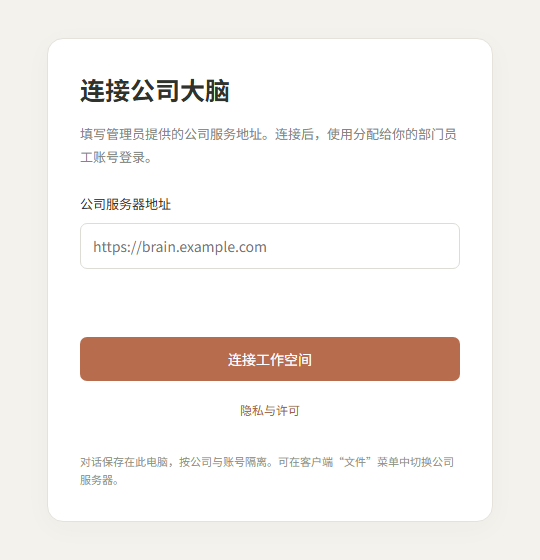
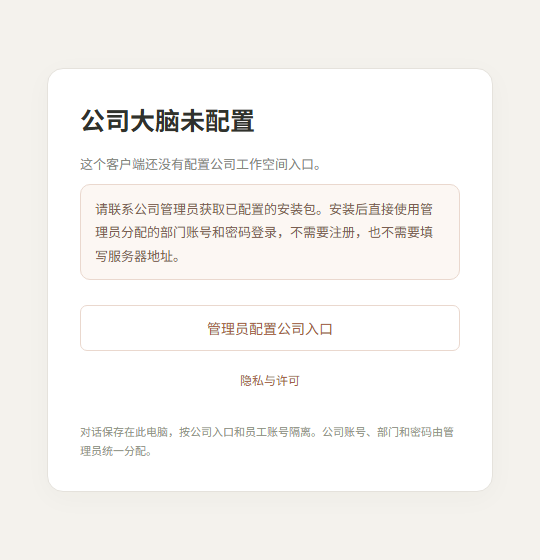
feat: preconfigure employee company login

Changed region(s): [[0.1481, 0.5768, 0.8593, 0.8804], [0.1481, 0.1214, 0.8593, 0.3036], [0.1481, 0.3339, 0.8, 0.4857]]

diff --git a/desktop/server-setup.html b/desktop/server-setup.html
@@ -38,6 +38,14 @@
         line-height: 1.8;
         font-size: 13px;
       }
+      .locked-copy {
+        margin-top: -4px;
+        padding: 12px 14px;
+        border: 1px solid #ead8ce;
+        border-radius: 10px;
+        background: #fcf7f3;
+        color: #795e50;
+      }
       label {
         display: block;
         font-size: 13px;
@@ -69,6 +77,18 @@
       button:disabled {
         opacity: 0.5;
       }
+      button.secondary {
+        margin-top: 12px;
+        background: transparent;
+        color: #a35e43;
+        border: 1px solid #ead8ce;
+      }
+      button.legal {
+        background: transparent;
+        color: #a35e43;
+        margin-top: 8px;
+        font-size: 12px;
+      }
       .error {
         color: #a34a34;
         min-height: 20px;
@@ -84,11 +104,15 @@
   </head>
   <body>
     <main>
-      <h1>连接公司大脑</h1>
-      <p>
-        填写管理员提供的公司服务地址。连接后，使用分配给你的部门员工账号登录。
-      </p>
-      <form>
+      <h1>公司大脑未配置</h1>
+      <section id="locked-setup">
+        <p>这个客户端还没有配置公司工作空间入口。</p>
+        <p class="locked-copy">
+          请联系公司管理员获取已配置的安装包。安装后直接使用管理员分配的部门账号和密码登录，不需要注册，也不需要填写服务器地址。
+        </p>
+      </section>
+      <form id="server-form" hidden>
+        <p>管理员配置模式：填写公司服务根地址，员工端会直接进入账号登录。</p>
         <label for="server-url">公司服务器地址</label
         ><input
           id="server-url"
@@ -97,11 +121,14 @@
           required
         />
         <p class="error" role="alert"></p>
-        <button type="submit">连接工作空间</button>
+        <button id="connect-button" type="submit">保存公司入口</button>
       </form>
-      <button type="button" id="show-legal" style="background:transparent;color:#a35e43;margin-top:8px;font-size:12px">隐私与许可</button>
+      <button type="button" id="show-admin" class="secondary" hidden>
+        管理员配置公司入口
+      </button>
+      <button type="button" id="show-legal" class="legal">隐私与许可</button>
       <small
-        >对话保存在此电脑，按公司与账号隔离。可在客户端“文件”菜单中切换公司服务器。</small
+        >对话保存在此电脑，按公司入口和员工账号隔离。公司账号、部门和密码由管理员统一分配。</small
       >
     </main>
     <script src="server-setup.js"></script>

diff --git a/desktop/server-setup.js b/desktop/server-setup.js
@@ -1,20 +1,37 @@
+const form = document.querySelector("#server-form");
+const locked = document.querySelector("#locked-setup");
+const adminButton = document.querySelector("#show-admin");
+const connectButton = document.querySelector("#connect-button");
+const error = document.querySelector(".error");
+
 document
   .querySelector("#show-legal")
   .addEventListener("click", () => window.companyConnection.showLegal());
-document.querySelector("form").addEventListener("submit", async (event) => {
+
+if (window.companyConnection.canConfigure === true) {
+  adminButton.hidden = false;
+  adminButton.addEventListener("click", () => {
+    locked.hidden = true;
+    adminButton.hidden = true;
+    form.hidden = false;
+    document.querySelector("#server-url").focus();
+  });
+}
+
+form.addEventListener("submit", async (event) => {
   event.preventDefault();
-  const button = document.querySelector("button");
-  const error = document.querySelector(".error");
   error.textContent = "";
-  button.disabled = true;
+  connectButton.disabled = true;
+  connectButton.textContent = "正在检查公司入口…";
   try {
     const result = await window.companyConnection.connect(
-      document.querySelector("input").value,
+      document.querySelector("#server-url").value,
     );
     if (result.error) error.textContent = result.error;
   } catch {
     error.textContent = "连接失败，请检查地址或网络。";
   } finally {
-    button.disabled = false;
+    connectButton.disabled = false;
+    connectButton.textContent = "保存公司入口";
   }
 });

diff --git a/src/Auth.tsx b/src/Auth.tsx
@@ -12,7 +12,10 @@ export default function Auth({
   onLogin: (user: User) => void;
   onLegal: () => void;
 }) {
-  const [setup, setSetup] = useState(bootstrap),
+  const desktopEmployee =
+      !!window.brainDesktop && window.brainDesktop.allowBootstrap !== true,
+    setupAllowed = bootstrap && !desktopEmployee;
+  const [setup, setSetup] = useState(setupAllowed),
     [busy, setBusy] = useState(false),
     [error, setError] = useState("");
   async function submit(e: FormEvent<HTMLFormElement>) {
@@ -44,12 +47,17 @@ export default function Auth({
         <div className="eyebrow">
           <LockKey size={16} /> 公司工作空间
         </div>
-        <h1>{setup ? "建立你的公司大脑" : "欢迎回来"}</h1>
+        <h1>{setup ? "建立你的公司大脑" : "登录公司账号"}</h1>
         <p>
           {setup
             ? "创建首位管理员，随后按部门开通员工账号。"
-            : "登录公司账号，继续你的工作。"}
+            : "使用管理员分配的账号和密码登录，继续你的工作。"}
         </p>
+        {desktopEmployee && bootstrap && (
+          <p role="status" className="auth-notice">
+            公司服务还没有完成初始化。请联系管理员开通公司账号；此客户端不提供注册入口。
+          </p>
+        )}
         <form onSubmit={submit}>
           {setup && (
             <>

diff --git a/src/App.tsx b/src/App.tsx
@@ -322,7 +322,7 @@ export default function App() {
                       ["新建任务", "new"],
                       ["导出本地记录", "export"],
                       ["导入本地记录", "import"],
-                      ...(window.brainDesktop
+                      ...(window.brainDesktop?.canChangeServer
                         ? [["切换公司服务器", "server"]]
                         : []),
                     ]

diff --git a/src/style.css b/src/style.css
@@ -2220,6 +2220,15 @@ tbody > tr:hover {
   font-size: 12px;
   margin-bottom: 25px;
 }
+.auth-card > .auth-notice {
+  padding: 11px 13px;
+  border: 1px solid #ead8ce;
+  border-radius: 10px;
+  background: #fcf7f3;
+  color: #795e50;
+  line-height: 1.7;
+  margin: -8px 0 18px;
+}
 .auth-card form > .button {
   width: 100%;
   margin-top: 10px;

diff --git a/src/global.d.ts b/src/global.d.ts
@@ -2,6 +2,8 @@ import type { LocalState } from "../shared/types";
 declare global {
   interface Window {
     brainDesktop?: {
+      allowBootstrap?: boolean;
+      canChangeServer?: boolean;
       updates?: import("../shared/updates").UpdateBridge;
       edit(action: string): void;
       readState(id: string): Promise<LocalState | null>;

diff --git a/build/windows/BrainWizard.cpp b/build/windows/BrainWizard.cpp
@@ -164,6 +164,12 @@ extern "C" void __cdecl Commit(HWND,int stringSize,wchar_t*,Stack** stack,void*)
 extern "C" void __cdecl Complete(HWND,int,wchar_t*,Stack**,void*) {
   InterlockedExchange(&installPhase,0);
 }
+extern "C" void __cdecl Refresh(HWND parent,int,wchar_t*,Stack**,void*) {
+  HWND window=IsWindow(parent)?parent:host;
+  if(!IsWindow(window)) return;
+  RedrawWindow(window,nullptr,nullptr,RDW_INVALIDATE|RDW_UPDATENOW|RDW_ALLCHILDREN);
+  UpdateWindow(window);
+}
 extern "C" void __cdecl Progress(HWND parent,int,wchar_t*,Stack** stack,void*) {
   stopProgress();host=parent;
   progress=reinterpret_cast<HWND>(popHandle(stack));

diff --git a/README.md b/README.md
@@ -2,7 +2,7 @@
 
 面向公司员工的 AI 创作与工作平台，包含 Windows 客户端、macOS 客户端、员工网页端和浏览器管理后台。
 
-当前开发测试版本为 v0.2.6：员工网页端、Windows/macOS 桌面外壳和管理后台可运行，部门账号、文本型 Skill 的提交发布安装及客户端更新入口已接通。Windows 四步安装向导启动时居中，欢迎页字体和许可链接已按内容区重新对齐，临时目录空间检查会显示实际可用与需要的空间。真实模型、视频、NAS 和完整 Agent 执行仍按阶段推进，详见[开发状态与验证记录](docs/DEVELOPMENT-STATUS.md)。
+当前开发测试版本为 v0.2.7：员工网页端、Windows/macOS 桌面外壳和管理后台可运行，部门账号、文本型 Skill 的提交发布安装及客户端更新入口已接通。员工分发包可预置公司服务入口，员工直接使用分配账号登录；Windows 四步安装向导启动时居中，安装进度刷新和阶段文案已同步。真实模型、视频、NAS 和完整 Agent 执行仍按阶段推进，详见[开发状态与验证记录](docs/DEVELOPMENT-STATUS.md)。
 
 ## 界面预览
 
@@ -45,7 +45,7 @@
 
 这些是开发测试版。Windows 尚未签名；Mac 使用 ad-hoc 签名，尚无 Apple Developer ID 签名和公证，下载后可能出现系统安全提示。Mac 打开 DMG 后将“公司大脑”拖入 Applications（应用程序），安装和检查范围见 [macOS 分发说明](docs/MACOS-RELEASE.md)。源码和安装包的访问权限以仓库当前可见性为准；仓库为私有时需要 GitHub 授权。
 
-安装后填写管理员提供的公司服务器地址，再使用公司分配的账号登录。管理后台与业务服务需单独部署；安装包不包含服务器数据库、预设账号或公司密钥。本机开发测试可先按下文启动服务，使用 http://127.0.0.1:4173 作为客户端连接地址。
+员工分发包应在打包时预设公司服务器入口，员工安装后直接使用管理员分配的部门账号和密码登录，不需要注册，也不需要填写服务器地址。管理员打包时设置 `BRAIN_APP_URL=https://你的公司入口`，客户端会把这个地址写入安装包；没有预设入口的测试包只显示“公司大脑未配置”提示。管理后台与业务服务需单独部署；安装包不包含服务器数据库、预设账号或公司密钥。本机开发测试可先按下文启动服务，使用 http://127.0.0.1:4173 作为客户端连接地址。
 
 从 v0.2.0 起，客户端登录后自动检查新版本，左侧底部显示更新入口，可查看说明、下载、校验并主动打开安装程序；0.1.x 客户端先手动安装一次新版。公司服务器需同步升级，并在服务器环境配置一次 BRAIN_GITHUB_TOKEN（私有仓库 Contents: read）；凭据不分发给员工。详见[更新配置](docs/DEPLOYMENT.md#客户端更新源)。仓库右侧的 Packages 用于 npm 等依赖包或容器镜像，Windows 和 Mac 安装包统一放在 Releases。
 
@@ -68,7 +68,7 @@ npm run dev
 npm run desktop
 ```
 
-打包客户端首次打开时填写公司服务器地址。正式员工客户端连接统一公司服务器，员工电脑无需安装业务数据库或各自部署公司后端。当前客户端从公司服务器加载员工界面，个人记录仍由桌面本地存储保存；离线冷启动尚未实现。
+正式员工客户端连接统一公司服务器，员工电脑无需安装业务数据库或各自部署公司后端。当前客户端从公司服务器加载员工界面，个人记录仍由桌面本地存储保存；离线冷启动尚未实现。管理员需要更换入口时，请在 `BRAIN_ADMIN_SETUP=1` 的管理员配置环境中打开服务器配置页；普通员工客户端不显示切换入口。
 
 ## 构建、检查与部署准备
 

diff --git a/docs/releases/v0.2.7.md b/docs/releases/v0.2.7.md
@@ -1,0 +1,22 @@
+# v0.2.7
+
+## 员工客户端登录入口
+
+- 员工桌面客户端不再显示服务器地址输入框，也不提供注册或初始化入口。
+- 管理员在打包时设置 `BRAIN_APP_URL`，安装包会预置公司服务入口，员工打开后直接进入公司账号登录页。
+- 未预配置入口的测试包会显示“公司大脑未配置”，明确提示联系管理员获取正确安装包。
+- 服务器切换和入口配置仅保留给验证或管理员配置环境，普通员工菜单不显示该项。
+- 配置页不保存账号、密码或密钥，预置文件只包含服务 URL。
+
+## 安装流程
+
+- 安装器阶段刷新调用已补齐，准备、写入、注册和完成检查前会立即刷新进度页。
+- 写入阶段文案改为“替换旧版并写入程序”，与实际操作一致。
+
+## 验证范围
+
+- `npm run version:check`
+- `npm test`
+- `npm run build`
+- `npm run test:desktop`
+- Windows 安装器验证与发布资源校验在打包完成后补充到本版本报告。
